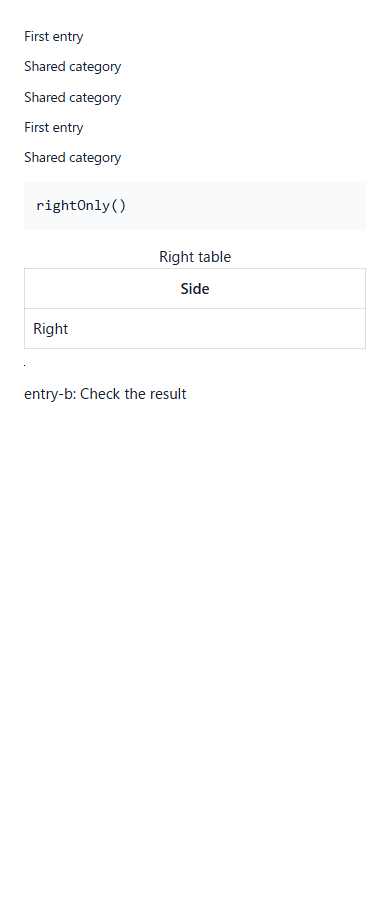
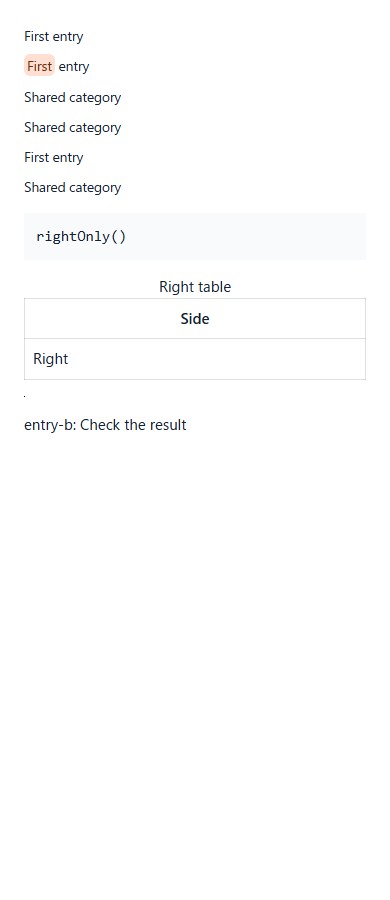
test: verify matching annotation controls

diff --git a/docs/screenshots/matching-side-content.md b/docs/screenshots/matching-side-content.md
@@ -42,9 +42,20 @@ expected: Shared category
 ```
 
 There was no side parameter before the repair; the regression supplies the
-proposed parameter, which the old component ignores. This is a component-level
-contract regression, not evidence of an existing production caller requesting
-the right side incorrectly.
+proposed parameter, which the old component ignores. The red-before result
+establishes the new shared-component contract; it is not a reproduction of a
+pre-existing live learner regression or evidence of an existing production
+caller requesting the right side incorrectly.
+
+Independent review found that the original negative annotation assertion used
+backend DTO fields directly in component props. Those annotations were filtered
+out before rendering, so that assertion was vacuous. The corrected fixture uses
+frontend `Annotation` fields (`qid`, `target`, `start`, `end`) and passes the same
+annotation to both a matching left-source positive control and the mismatched
+right source. The positive control failed with the old DTO shape (zero marks
+instead of one). It now requires exactly one highlighted `First` span at source
+offset zero; the right source must show `Shared category` without that mark.
+This correction changes test evidence, not production annotation behavior.
 
 The regression checks:
 
@@ -55,8 +66,9 @@ The regression checks:
 - Editor answer controls and editor/import previews remain correct without
   saving or executing an import.
 - Explicit sides, the default left projection, missing right IDs, Markdown
-  source matching, unrelated annotations, code, table, decoded figure and member
-  references resolve correctly without mutating the source data.
+  source matching, the positive/negative annotation controls, code, table,
+  decoded figure and member references resolve correctly without mutating the
+  source data.
 - Desktop (1280px) and phone-width (390px) browser viewports pass.
 
 Run with `node apps/web/scripts/matching-side-content.browser.mjs`, or the
@@ -76,10 +88,11 @@ The learner screen below is a preservation check, not a before/after UI change.
 
 ![Existing Practice matching behavior with cross-side ID reuse at 390px](matching-side-content/practice-390.png)
 
-The direct component harness below renders the left projection, right Markdown,
-right content with a mismatched source, a missing right ID (empty), explicit left,
-right rich blocks and right member references in that order. The pixel figure is
-deliberately one pixel; the test checks successful image decoding.
+The direct component harness below renders the left projection, the highlighted
+left positive control, right Markdown, right content with a mismatched source,
+a missing right ID (empty), explicit left, right rich blocks and right member
+references in that order. The pixel figure is deliberately one pixel; the test
+checks successful image decoding.
 
 ![Direct rich component side-selection fixture at 390px](matching-side-content/renderer-390.png)
 
